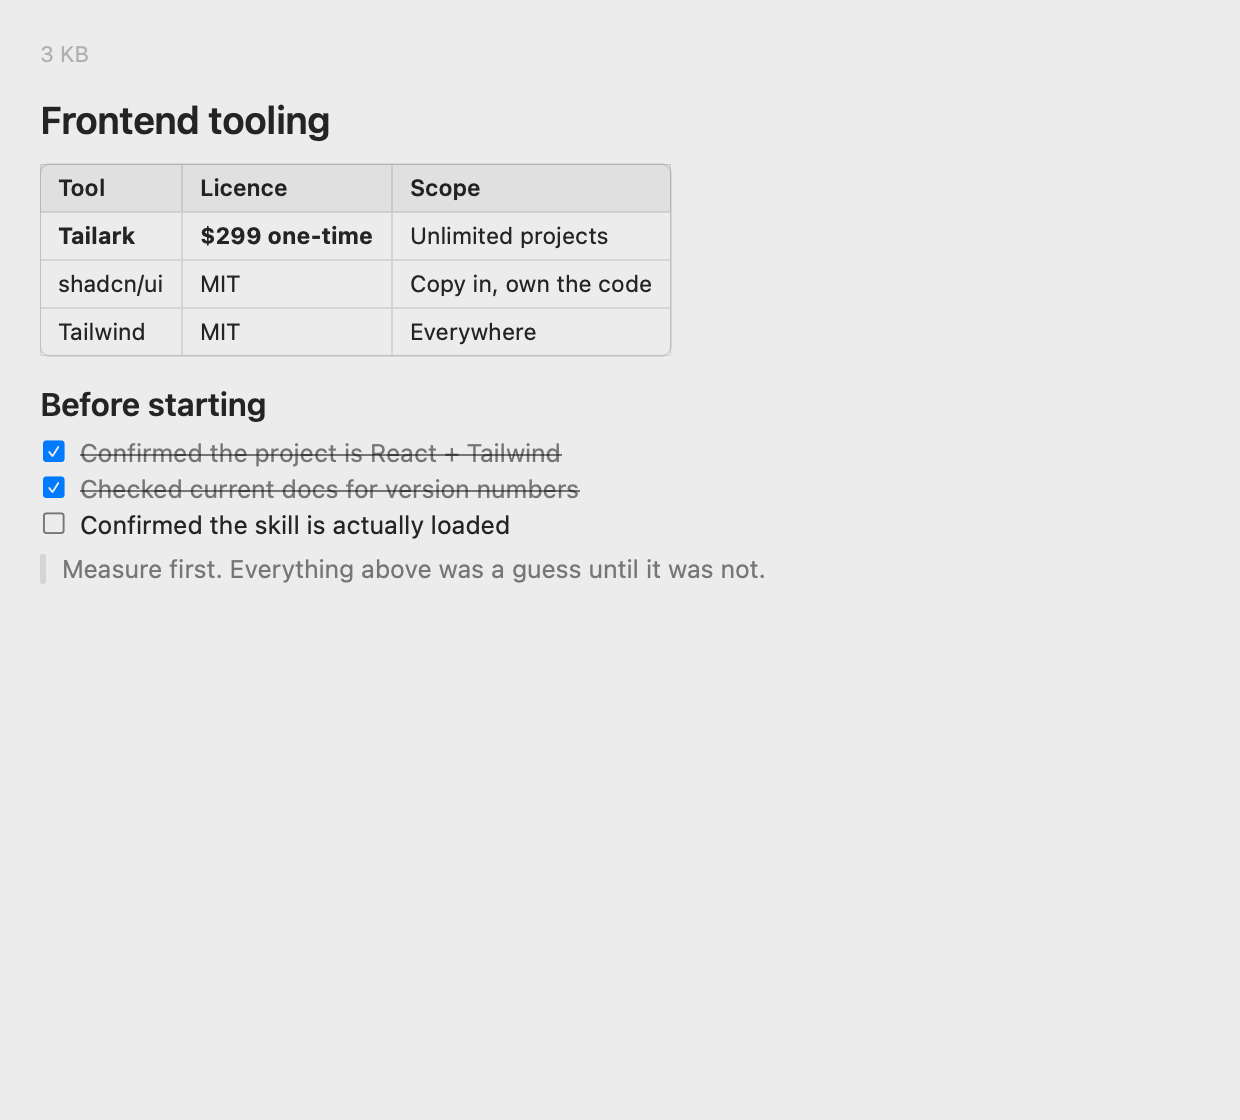
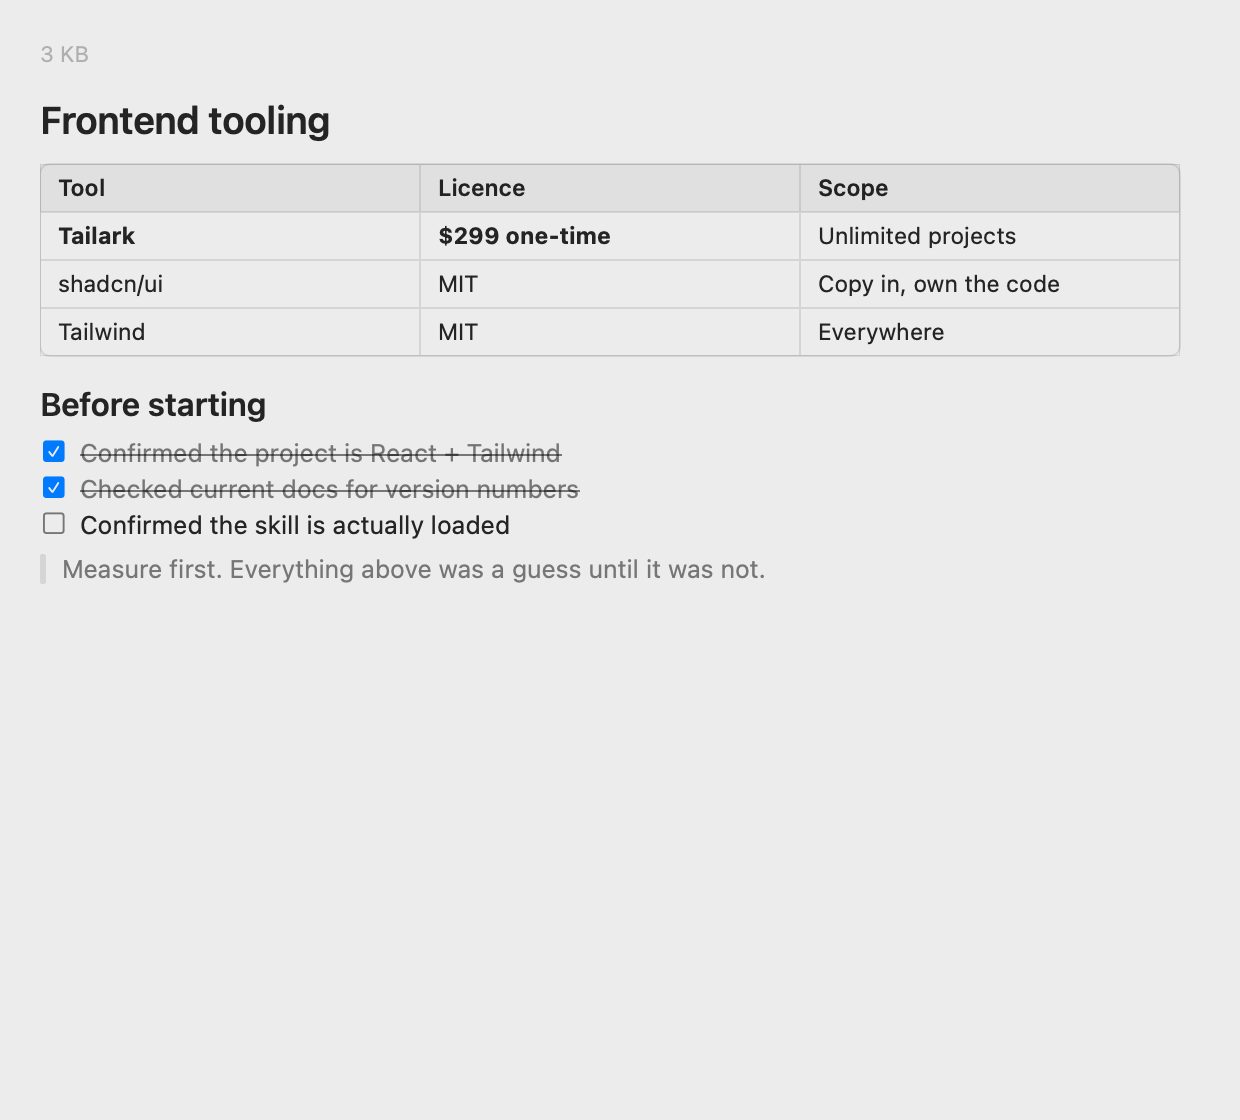
Tables size to their tallest cell, and upgrade ignores the cache
Two bugs, one reported and one found in the report.

**Table rows.** A cell whose text wrapped to three lines still reported a
one-line row, so its text spilled over the header above and the row
below with the last line clipped. SwiftUI's Grid could not be trusted to
size a row here: inside a horizontally scrolling ScrollView the proposed
width is unbounded, and the negotiation produces a row shorter than its
content. Rows are now HStacks in a VStack with a fixed column width, so
wrapping is deterministic, and each cell stretches to the row height so
its border describes the cell rather than the text that happens to be in
it. Reproduced and verified with a deliberately uneven table.

macOS only — HTML table layout does this natively, confirmed by
measuring: every cell exactly as tall as its 68px row, no overflow.

**jotbay upgrade could not see a new release for six hours.** It called
refresh_remote(), which honours the cache, under a comment claiming it
did not. A machine that cached one version shortly before the next
shipped had no way through but deleting the cache file by hand, which is
what the Linux rollout had to do to reach 1.6.1 at all. refresh_remote_now()
skips the cache; verified by planting a fresh cache claiming 1.0.0 and
watching upgrade re-query and find 1.6.1.

Claude-Session: https://claude.ai/code/session_018HYRMTKUbJwhZmvwpbSXYU

diff --git a/lib/gui-macos/Sources/FilesPane.swift b/lib/gui-macos/Sources/FilesPane.swift
@@ -441,35 +441,46 @@ private struct MarkdownText: View {
 
 /// A markdown table.
 ///
-/// A Grid rather than SwiftUI's `Table`, which is a list control built around
-/// a typed row model — the wrong shape entirely for cells parsed out of text.
-/// Scrolls horizontally on its own so a wide reference table never widens the
-/// pane it sits in.
+/// Rows are HStacks in a VStack rather than a SwiftUI `Grid`. Grid could not be
+/// trusted to size a row to its tallest cell here: inside a horizontally
+/// scrolling ScrollView the proposed width is unbounded, so a cell that wrapped
+/// to three lines still reported a one-line row, and its text spilled over the
+/// header above and the row below with the last line clipped.
+///
+/// A fixed column width makes wrapping deterministic, and each cell then
+/// stretches to the row's height so its border and background cover the whole
+/// cell instead of stopping where its own text happens to end.
 private struct TableBlock: View {
     let header: [String]
     let rows: [[String]]
 
     private var columns: Int { max(header.count, rows.map(\.count).max() ?? 0) }
 
+    /// Wide enough for a sentence, narrow enough that three columns still fit
+    /// a default window before the horizontal scroll is needed.
+    private let columnWidth: CGFloat = 190
+
     var body: some View {
         ScrollView(.horizontal, showsIndicators: false) {
-            Grid(alignment: .topLeading, horizontalSpacing: 0, verticalSpacing: 0) {
-                GridRow {
-                    ForEach(0..<columns, id: \.self) { column in
-                        cell(header.indices.contains(column) ? header[column] : "", head: true)
-                    }
-                }
-                ForEach(Array(rows.enumerated()), id: \.offset) { _, row in
-                    GridRow {
-                        ForEach(0..<columns, id: \.self) { column in
-                            cell(row.indices.contains(column) ? row[column] : "", head: false)
-                        }
-                    }
+            VStack(spacing: 0) {
+                line(header, head: true)
+                ForEach(Array(rows.enumerated()), id: \.offset) { _, cells in
+                    line(cells, head: false)
                 }
             }
             .overlay(RoundedRectangle(cornerRadius: 5).stroke(.quaternary, lineWidth: 1))
             .padding(.vertical, 3)
         }
+    }
+
+    private func line(_ cells: [String], head: Bool) -> some View {
+        HStack(alignment: .top, spacing: 0) {
+            ForEach(0..<columns, id: \.self) { index in
+                cell(cells.indices.contains(index) ? cells[index] : "", head: head)
+            }
+        }
+        // The row is exactly as tall as its tallest cell, and no taller.
+        .fixedSize(horizontal: false, vertical: true)
     }
 
     private func cell(_ text: String, head: Bool) -> some View {
@@ -481,10 +492,13 @@ private struct TableBlock: View {
 
         return Text(styled)
             .font(.system(size: 11.5, weight: head ? .semibold : .regular))
-            .frame(maxWidth: 260, alignment: .leading)
             .fixedSize(horizontal: false, vertical: true)
             .padding(.horizontal, 9)
             .padding(.vertical, 5)
+            .frame(width: columnWidth, alignment: .topLeading)
+            // Stretch to the row, so the border and shading describe the cell
+            // rather than the text that happens to be in it.
+            .frame(maxHeight: .infinity, alignment: .topLeading)
             .background(head ? AnyShapeStyle(.quaternary.opacity(0.5)) : AnyShapeStyle(.clear))
             .border(.quaternary, width: 0.5)
     }

diff --git a/lib/gui-macos/screenshots.swift b/lib/gui-macos/screenshots.swift
@@ -229,6 +229,21 @@ let demoActivity: [ActivityEvent] = [
 
         > Measure first. Everything above was a guess until it was not.
         """
+        // A table whose cells differ wildly in height — the case where a
+        // short cell's border stops short of the row it is in.
+        let unevenTable = """
+        # Licences
+
+        | Tool | Licence | Scope |
+        |---|---|---|
+        | **Tailark** | **Complete — $299 one-time, lifetime** | **Unlimited projects.** Use freely on anything of mine, including client work, with no per-seat accounting and no expiry to track. |
+        | shadcn/ui | MIT | Copy in |
+        | Tailwind | MIT | Everywhere, forever, on anything at all — there is no licence tier to think about here and never has been. |
+        """
+        shot("table-uneven", PreviewView(preview: Preview(
+            rel: "licences.md", size: 900, text: unevenTable,
+            markdown: true, truncated: false)), width: 620, height: 460)
+
         shot("macos-note-rich", PreviewView(preview: Preview(
             rel: "frontend-tooling.md", size: 3180, text: richNote,
             markdown: true, truncated: false)), width: 620, height: 560)

diff --git a/lib/core/src/update.rs b/lib/core/src/update.rs
@@ -95,11 +95,29 @@ fn read_cache() -> Option<String> {
 /// Called only on the paths that already touch the network — a status refresh
 /// or an explicit upgrade — never from the local repaint loop, which runs every
 /// twenty seconds and must not make an HTTP request to redraw a badge.
+///
+/// Honours the cache. `refresh_remote_now` is the one that does not.
 pub fn refresh_remote() {
-    if let Ok(bytes) = std::fs::read(cache_path()) {
-        if let Ok(cached) = serde_json::from_slice::<CachedRelease>(&bytes) {
-            if now_secs().saturating_sub(cached.checked_at) < CACHE_SECS {
-                return;
+    refresh(false)
+}
+
+/// The same check, ignoring the cache.
+///
+/// For `jotbay upgrade`, where honouring a six-hour-old answer is exactly
+/// wrong: a machine that cached "1.6.0" half an hour before 1.6.1 shipped
+/// could not reach the new release at all, and the only way through was
+/// deleting the cache file by hand. Hit on Linux during a rollout.
+pub fn refresh_remote_now() {
+    refresh(true)
+}
+
+fn refresh(force: bool) {
+    if !force {
+        if let Ok(bytes) = std::fs::read(cache_path()) {
+            if let Ok(cached) = serde_json::from_slice::<CachedRelease>(&bytes) {
+                if now_secs().saturating_sub(cached.checked_at) < CACHE_SECS {
+                    return;
+                }
             }
         }
     }

diff --git a/lib/cli/src/main.rs b/lib/cli/src/main.rs
@@ -316,8 +316,11 @@ fn cmd_watch(jotbay: &Jotbay) -> jotbay_core::Result<()> {
 
 fn cmd_upgrade(jotbay: &Jotbay) -> jotbay_core::Result<()> {
     // Asking to upgrade is exactly the moment to find out what "latest" is,
-    // rather than trusting a cache that may be six hours old.
-    jotbay_core::update::refresh_remote();
+    // rather than trusting a cache that may be six hours old. This used to call
+    // refresh_remote(), which honours that cache — so the comment was true and
+    // the code was not, and a machine could be unable to reach a new release
+    // until the cache aged out.
+    jotbay_core::update::refresh_remote_now();
 
     let status = jotbay.update_status();
     match (&status.latest, status.available) {
